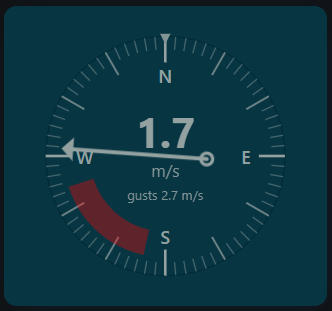
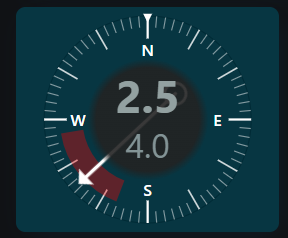
Update screenshot and add dashboard composite view

Changed region(s): [[0.0, 0.0, 1.0, 1.0]]

diff --git a/README.md b/README.md
@@ -16,6 +16,10 @@ The card resizes to fill whatever tile it's given (e.g. one column of a
 
 ![Wind direction card screenshot](screenshot.png)
 
+Shown here in a dashboard alongside other sensor cards:
+
+![Wind direction card in a dashboard](screenshot-dashboard.png)
+
 ## Install
 
 ### Via HACS (custom repository)
